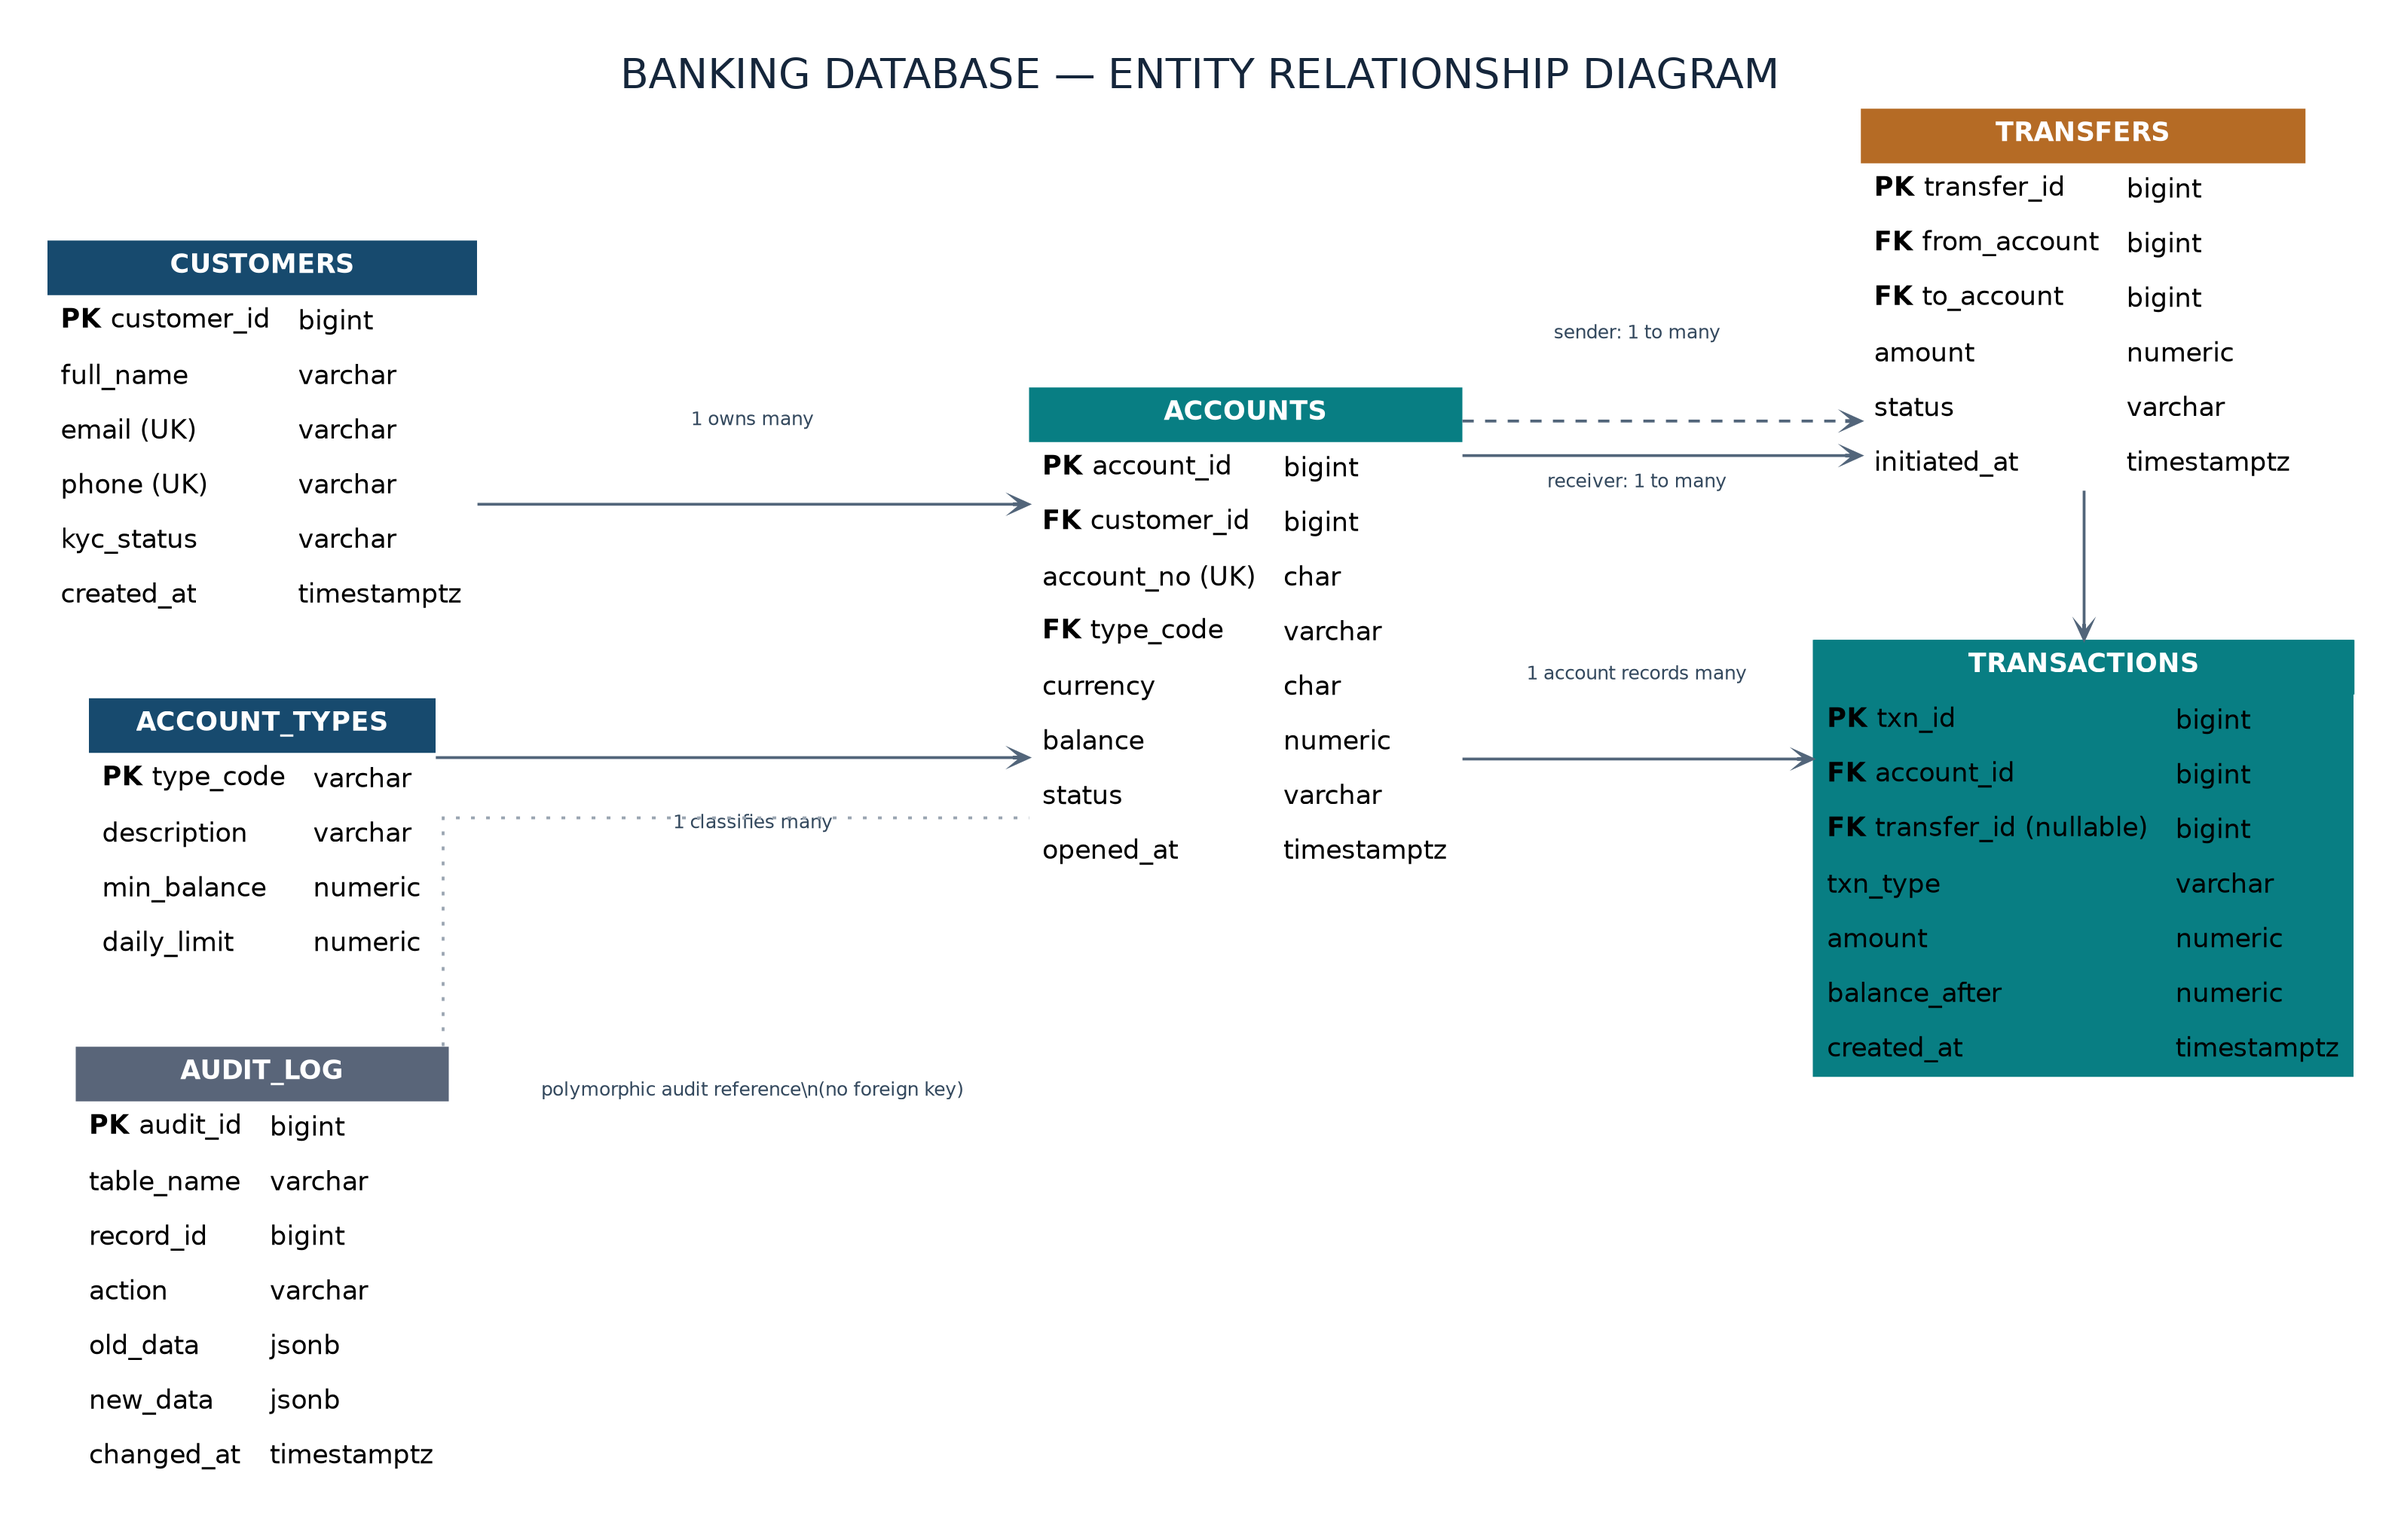
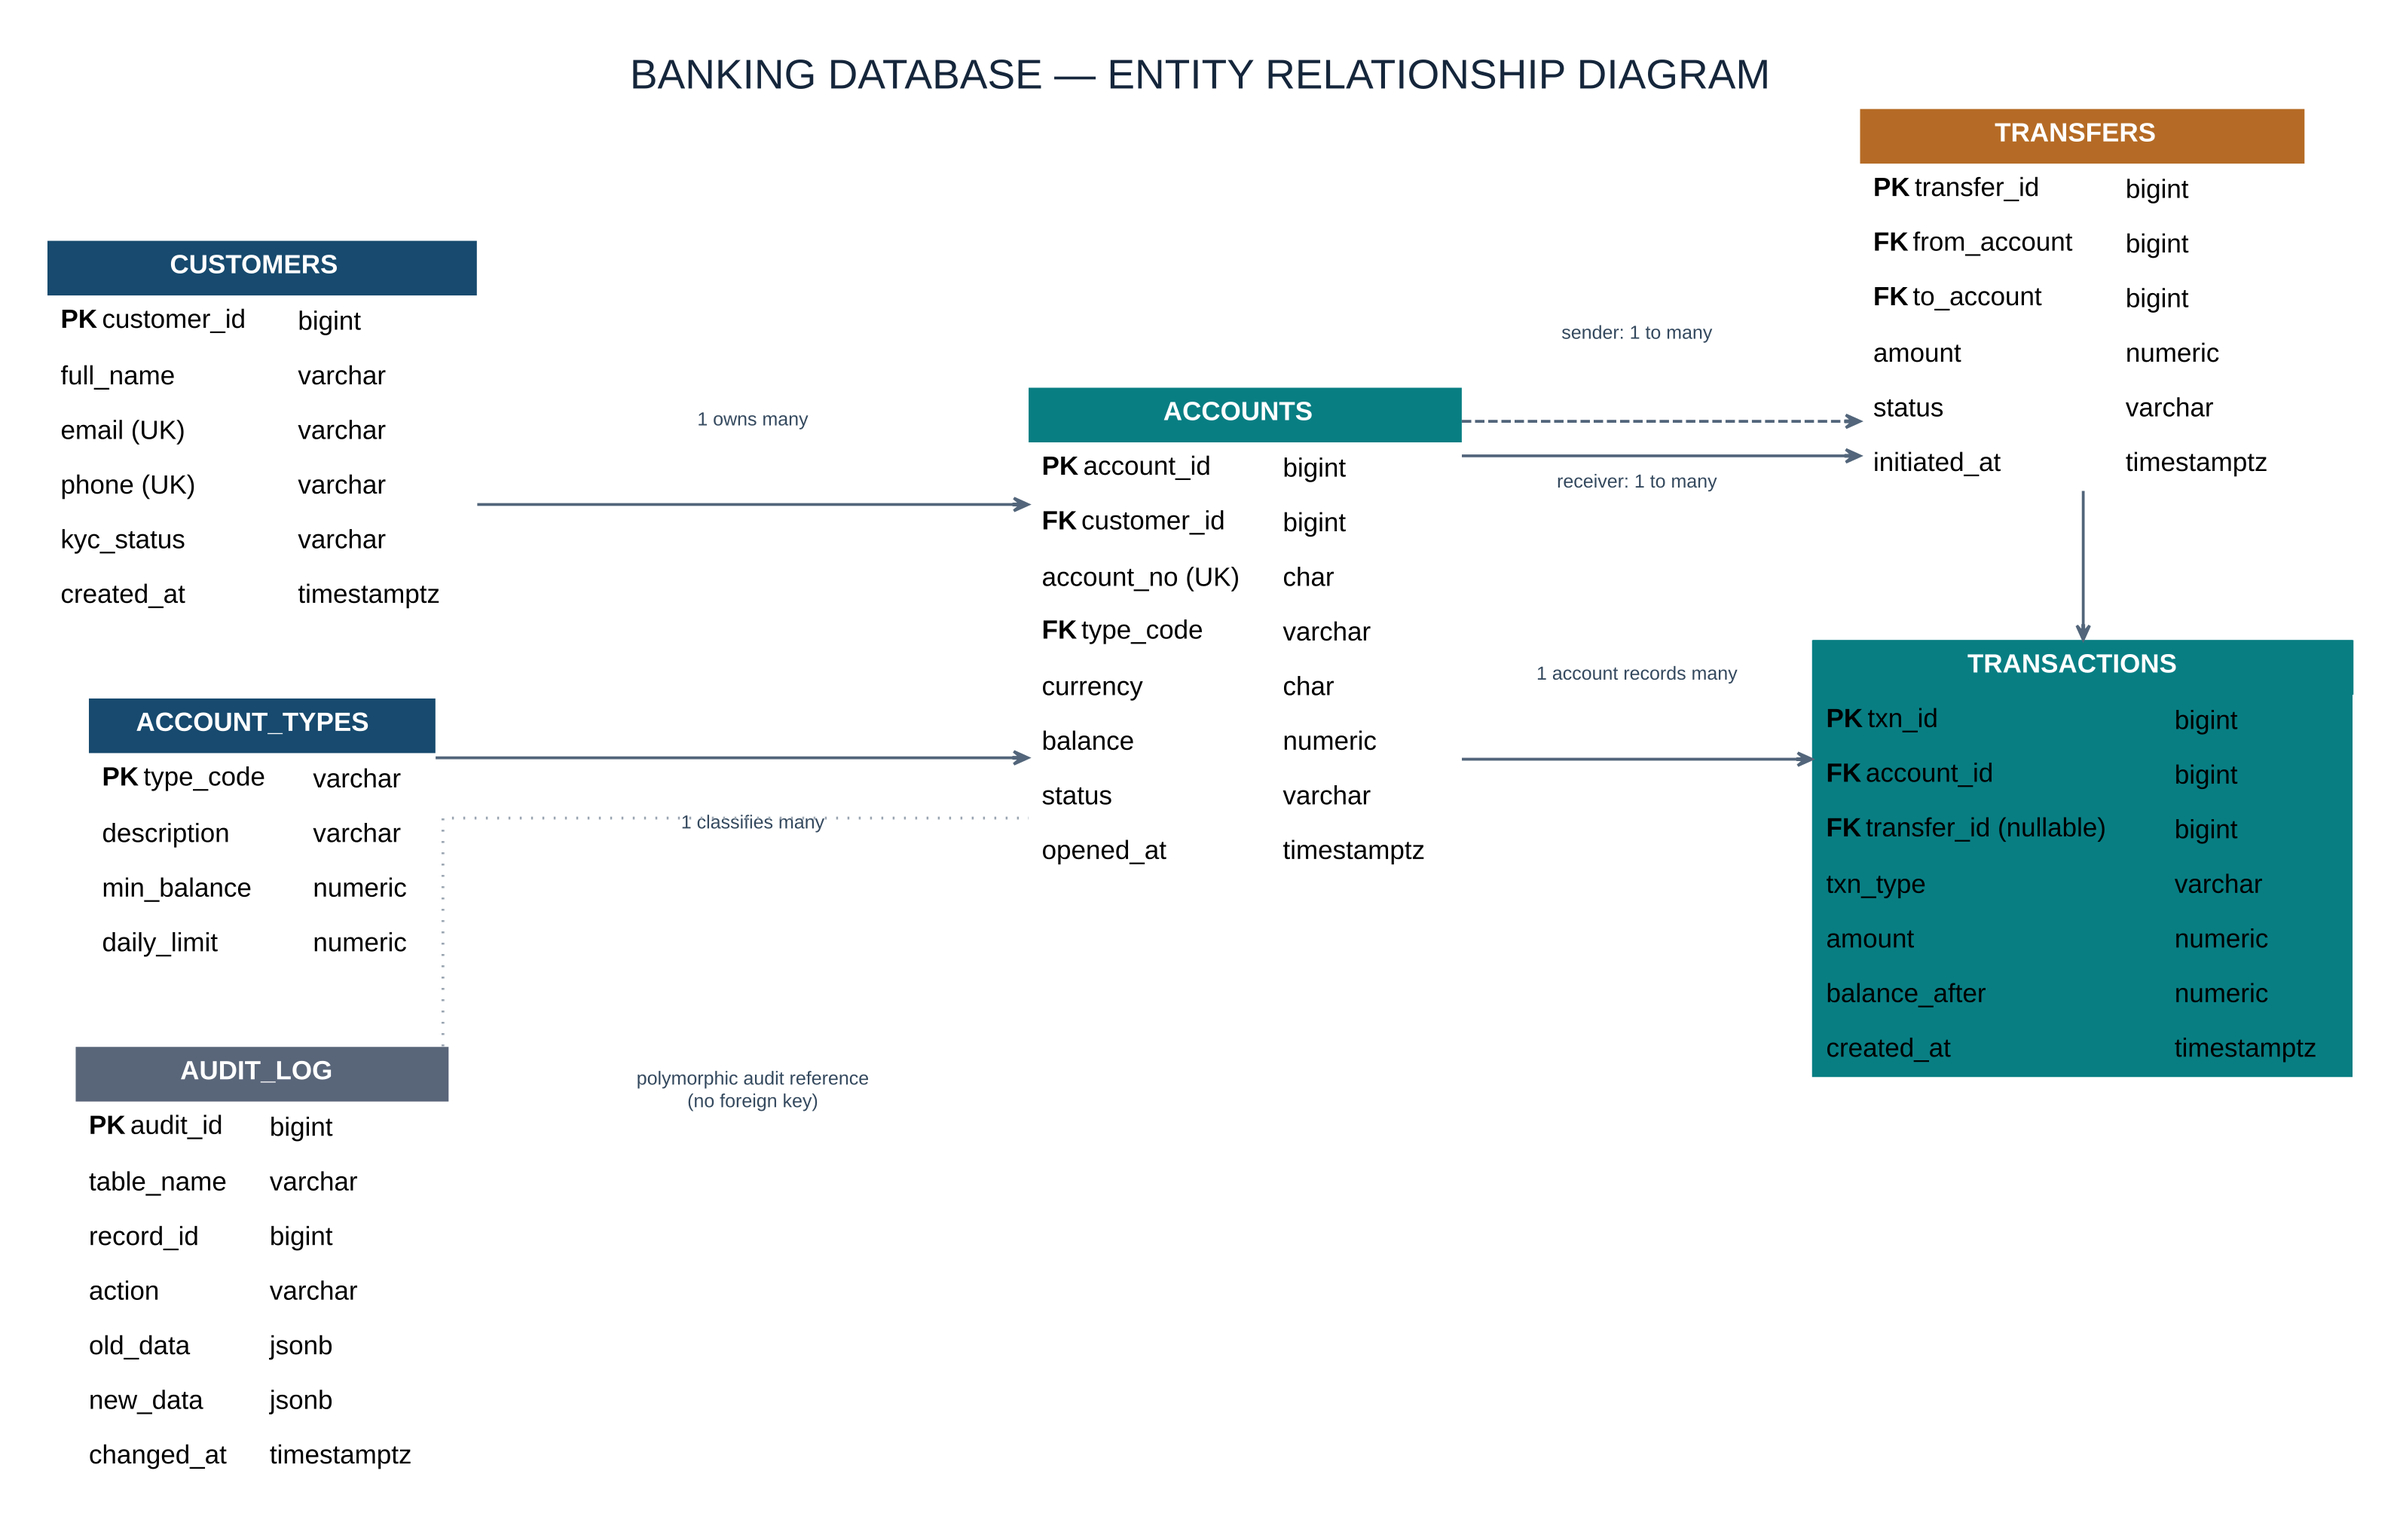
Update technology table, references and ER diagram label

diff --git a/README.md b/README.md
@@ -8,7 +8,7 @@
 
 **Case study:** PayBridge Microfinance Bank, a simulated digital bank
 
-This repository holds the practical evidence for all five portfolio activities plus the final documentation. Everything uses one case study consistently: a bank where the ledger needs strict ACID guarantees, while data that tolerates eventual consistency is modelled separately.
+This repository holds the practical evidence for all five portfolio activities. The final 2–3 page summary is submitted with it as `Nwani_Ugochukwu_301930571_README.pdf`. Everything uses one case study consistently: a bank where the ledger needs strict ACID guarantees, while data that tolerates eventual consistency is modelled separately.
 
 ## 1. Case study summary
 
@@ -25,8 +25,8 @@ Full statement: [`portfolio-1-database-design/README.md`](portfolio-1-database-d
 | Area | Technology | Reason |
 |---|---|---|
 | Ledger (Portfolios 1-3) | PostgreSQL 16 in Docker | Full ACID, serializable isolation available, mature planner and `EXPLAIN` tooling |
-| NoSQL (Portfolio 4) | MongoDB | Flexible documents for activity/transaction logs, where eventual consistency is acceptable |
-| Distributed (Portfolio 5) | PostgreSQL primary + replica (Docker Compose) | Demonstrates replication, failover and the consistency/availability trade-off. A NewSQL system such as CockroachDB is a possible extension so as to model a distributed database setup that allows for scalability|
+| NoSQL (Portfolio 4) | MongoDB 7 in Docker | Flexible documents for customer activity events and profiles, plus a key-value session store with a TTL index, where eventual consistency is acceptable |
+| Distributed (Portfolio 5) | PostgreSQL 16 primary + streaming replica, and a three-member MongoDB replica set (Docker Compose) | Demonstrates replication, synchronous vs asynchronous commit, failover, split brain and the consistency/availability trade-off. Sharding is analysed on the seeded data, and the README places Citus and NewSQL systems such as CockroachDB on the growth path for scaling writes beyond one primary |
 
 The guiding principle is polyglot persistence: the money ledger stays ACID in PostgreSQL, and only data that tolerates BASE-style behaviour moves to NoSQL.
 
@@ -141,7 +141,12 @@ docker run --name pg-bank -e POSTGRES_PASSWORD=<your_password> \
 
 ## 8. References
 
-- PostgreSQL documentation: https://www.postgresql.org/docs/
-- MongoDB documentation: https://www.mongodb.com/docs/
-- Course materials and textbooks for MIT 8103.
-- Docker documentation: https://docs.docker.com/
+- Abadi, D. (2012). Consistency tradeoffs in modern distributed database system design: CAP is only part of the story. *IEEE Computer*, 45(2), 37–42.
+- Brewer, E. (2000). Towards robust distributed systems. Keynote, *ACM Symposium on Principles of Distributed Computing (PODC)*.
+- Elmasri, R. and Navathe, S. B. (2016). *Fundamentals of Database Systems* (7th ed.). Pearson.
+- Gilbert, S. and Lynch, N. (2002). Brewer's conjecture and the feasibility of consistent, available, partition-tolerant web services. *ACM SIGACT News*, 33(2), 51–59.
+- Kleppmann, M. (2017). *Designing Data-Intensive Applications*. O'Reilly Media.
+- PostgreSQL Global Development Group. *PostgreSQL 16 Documentation*: Using EXPLAIN (https://www.postgresql.org/docs/16/using-explain.html), Partial Indexes (https://www.postgresql.org/docs/16/indexes-partial.html), Transaction Isolation (https://www.postgresql.org/docs/16/transaction-iso.html), Explicit Locking (https://www.postgresql.org/docs/16/explicit-locking.html), High Availability, Load Balancing, and Replication (https://www.postgresql.org/docs/16/high-availability.html).
+- MongoDB, Inc. *MongoDB Manual*: Schema Validation (https://www.mongodb.com/docs/manual/core/schema-validation/), TTL Indexes (https://www.mongodb.com/docs/manual/core/index-ttl/), Replication (https://www.mongodb.com/docs/manual/replication/), Write Concern (https://www.mongodb.com/docs/manual/reference/write-concern/), Sharding (https://www.mongodb.com/docs/manual/sharding/).
+- Docker Inc. *Docker Compose documentation*: https://docs.docker.com/compose/
+- MIT 8103 Advanced Database Systems course materials, MIVA Open University.
